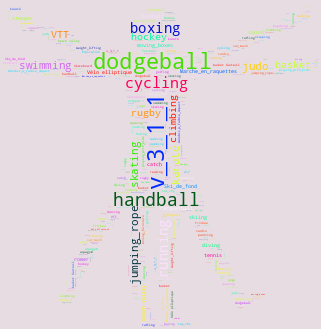
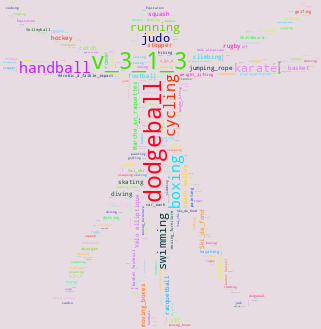
Add language menu
Add More docs

Add a better theme

Set up a beta mode

Changed region(s): [[0.0, 0.0, 0.9969, 1.0]]

diff --git a/trianer/analysis/vetruve.py b/trianer/analysis/vetruve.py
@@ -70,9 +70,6 @@ def wordcloud_calories_per_sport(filename=None, generate=True):
     else:
         version = update_version()
 
-        from ..__version__ import __version__
-
-        version = __version__
         rd.seed(42)
 
         from wordcloud import WordCloud
@@ -88,14 +85,13 @@ def wordcloud_calories_per_sport(filename=None, generate=True):
         words += [f"v_{version}".replace(".", "_")] * 100
 
         rd.shuffle(words)
-        # print(words)
 
         # read the mask image
         path = "./" if os.path.exists("CHANGELOG.md") else "../"
         alice_mask = np.array(Image.open(path + "notebooks/vetruve.png"))
 
         wc = WordCloud(
-            background_color=background_color,  # "white",
+            background_color=background_color,
             max_words=2000,
             mask=alice_mask,
             contour_width=0,

diff --git a/trianer/__version__.py b/trianer/__version__.py
@@ -1,1 +1,1 @@
-__version__ = '3.1.2'
+__version__ = '3.1.3'

diff --git a/CHANGELOG.md b/CHANGELOG.md
@@ -9,7 +9,7 @@
 - Have a clear chart color and share it with the app
 
 
-#### [3.1.2] - 2022-09-30
+#### [3.1.3] - 2022-09-30
 
 - Add language menu
 - Add More docs
